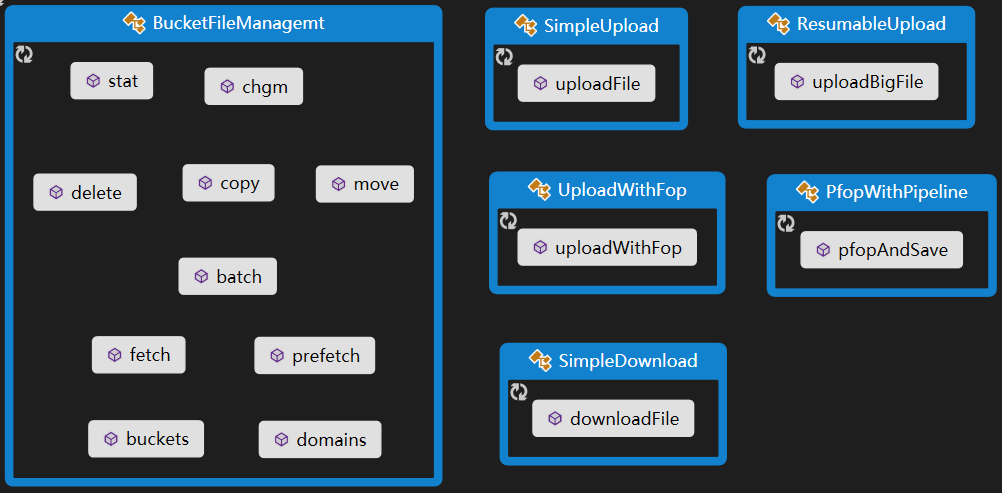
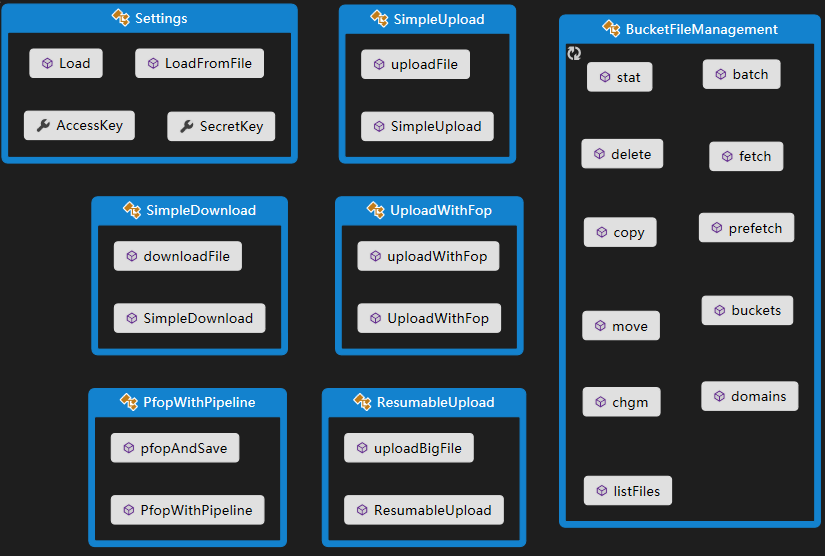
增加listFiles支持，更新文档及示例代码

diff --git a/examples/BucketFileManagement.cs b/examples/BucketFileManagement.cs
@@ -2,13 +2,14 @@
 using Qiniu.Storage;
 using Qiniu.Storage.Model;
 using Qiniu.Http;
+using System.Collections.Generic;
 
 namespace QiniuDemo
 {
     /// <summary>
     /// 空间及空间文件管理
     /// </summary>
-    public class BucketFileManagemt
+    public class BucketFileManagement
     {
 
         /// <summary>
@@ -171,6 +172,71 @@ namespace QiniuDemo
             foreach(string domain in result.Domains)
             {
                 System.Console.WriteLine(domain);
+            }
+        }
+
+        /// <summary>
+        /// 获取空间文件列表
+        /// 
+        /// BucketManager.listFiles(bucket, prefix, marker, limit, delimiter)
+        /// 
+        /// bucket:    目标空间名称
+        /// 
+        /// prefix:    返回指定文件名前缀的文件列表(prefix可设为null)
+        /// 
+        /// marker:    考虑到设置limit后返回的文件列表可能不全(需要重复执行listFiles操作)
+        ///            执行listFiles操作时使用marker标记来追加新的结果
+        ///            特别注意首次执行listFiles操作时marker为null   
+        ///            
+        /// limit:     每次返回结果所包含的文件总数限制(limit<=1000，建议值100) 
+        /// 
+        /// delimiter: 分隔符，比如-或者/等等，可以模拟作为目录结构(参考下述示例)
+        ///            假设指定空间中有2个文件 fakepath/1.txt fakepath/2.txt
+        ///            现设置分隔符delimiter = / 得到返回结果items =[]，commonPrefixes = [fakepath/]
+        ///            然后调整prefix = fakepath/ delimiter = null 得到所需结果items = [1.txt,2.txt]
+        ///            于是可以在本地先创建一个目录fakepath,然后在该目录下写入items中的文件  
+        ///            
+        /// </summary>
+        public static void listFiles()
+        {
+            Mac mac = new Mac(Settings.AccessKey, Settings.SecretKey);
+
+            string bucket = "BUCKET";
+            string marker = ""; // 首次请求时marker必须为空
+            string prefix = null; // 按文件名前缀保留搜索结果
+            string delimiter = null; // 目录分割字符(比如"/")
+            int limit = 100; // 最大值1000
+
+            BucketManager bm = new BucketManager(mac);
+            List<FileDesc> items = new List<FileDesc>();
+            List<string> commonPrefixes = new List<string>();
+
+            do
+            {
+                ListFilesResult result = bm.listFiles(bucket, prefix, marker, limit, delimiter);
+                
+                marker = result.Marker;
+                
+                if (result.Items != null)
+                {
+                    items.AddRange(result.Items);
+                }
+
+                if (result.CommonPrefixes != null)
+                {
+                    commonPrefixes.AddRange(result.CommonPrefixes);
+                }
+
+            } while (!string.IsNullOrEmpty(marker));
+
+            foreach (string cp in commonPrefixes)
+            {
+                System.Console.WriteLine(cp);
+            }
+
+            foreach(var item in items)
+            {
+                System.Console.WriteLine(item.Key);
             }
         }
     }

diff --git a/examples/App.cs b/examples/App.cs
@@ -24,34 +24,37 @@
             //ResumableUpload.uploadBigFile();
 
             // 空间文件stat
-            //BucketFileManagemt.stat();
+            //BucketFileManagement.stat();
 
             // 删除空间文件
-            //BucketFileManagemt.delete();
+            //BucketFileManagement.delete();
 
             // 复制空间文件
-            //BucketFileManagemt.copy();
+            //BucketFileManagement.copy();
 
             // 移动空间文件
-            //BucketFileManagemt.move();
+            //BucketFileManagement.move();
 
             // 修改空间文件的mimeType
-            //BucketFileManagemt.chgm();
+            //BucketFileManagement.chgm();
 
             // 批量操作
-            //BucketFileManagemt.batch();
+            //BucketFileManagement.batch();
 
             // 取回文件并保存到空间
-            //BucketFileManagemt.fetch();
+            //BucketFileManagement.fetch();
 
             // 镜像资源更新
-            //BucketFileManagemt.prefetch();
+            //BucketFileManagement.prefetch();
 
             // 列举所有bucket
-            //BucketFileManagemt.buckets();
+            //BucketFileManagement.buckets();
 
             // 获取指定bucket的域名
-            //BucketFileManagemt.domains();
+            //BucketFileManagement.domains();
+
+            // 获取空间文件列表
+            // BucketFileManagement.listFiles();
 
             // 文件处理+保存处理结果
             //PfopWithPipeline.pfopAndSave();

diff --git a/README.md b/README.md
@@ -111,7 +111,25 @@ C# SDK引用了第三方的开源项目[Json.NET](http://www.newtonsoft.com/json
 
 #####简单处理
 
-支持stat、copy、move、delete等，具体可参阅BucketManager模块说明。
+支持stat、copy、move、delete,listFiles等，具体可参阅BucketManager模块说明。
+
+######关于获取空间文件列表(listFiles)的说明：
+ 
+    METHOD:    listFiles(bucket, prefix, marker, limit, delimiter)
+	-----------------------------------------------------------------------
+    bucket:    目标空间名称
+    prefix:    返回指定文件名前缀的文件列表(prefix可设为null)
+    marker:    考虑到设置limit后返回的文件列表可能不全(需要重复执行listFiles操作)
+               执行listFiles操作时使用marker标记来追加新的结果
+               特别注意首次执行listFiles操作时marker为null               
+    limit:     每次返回结果所包含的文件总数限制(limit<=1000，建议值100)
+    delimiter: 分隔符，比如-或者/等等，可以模拟作为目录结构(参考下述示例)
+               假设指定空间中有2个文件 fakepath/1.txt fakepath/2.txt
+               现设置delimiter=/ 得到结果items =[]，commonPrefixes = [fakepath/]
+			   调整prefix=fakepath/ delimiter=null 得到所需结果items=[1.txt,2.txt]
+               于是可以在本地先创建一个目录fakepath,然后在该目录下写入items中的文件
+
+
 
 #####批量处理
 
